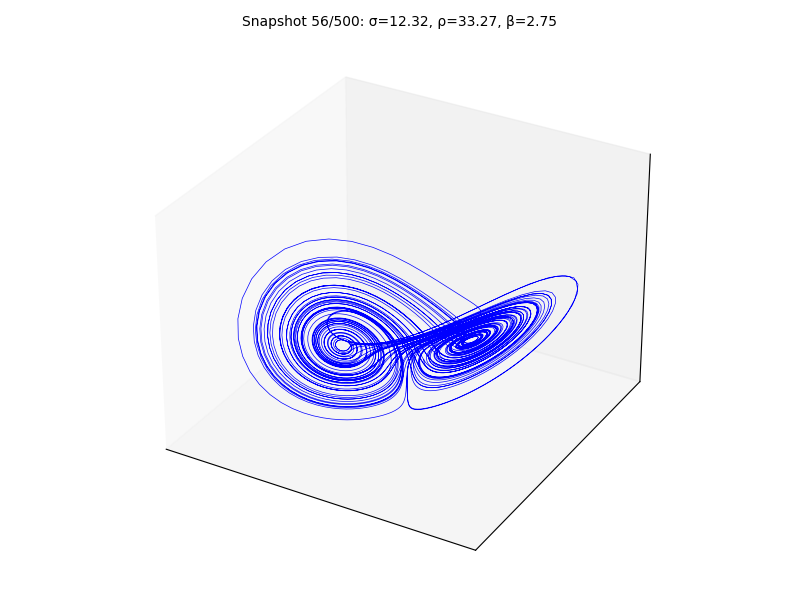
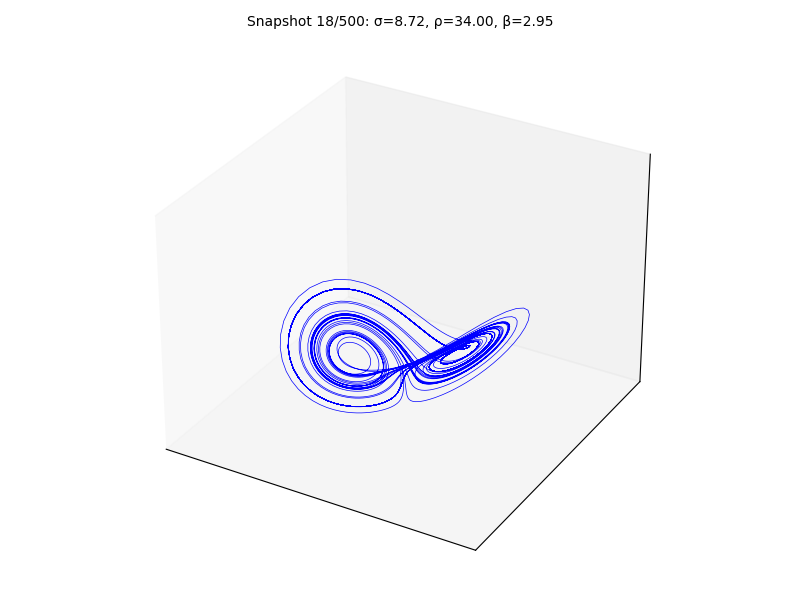
Working local search as posted in homework

Changed region(s): [[0.3125, 0.42, 0.7188, 0.69], [0.3125, 0.03, 0.6875, 0.06]]

diff --git a/experiments/local-search.py b/experiments/local-search.py
@@ -31,7 +31,7 @@ def measure_space(points):
     return volume
 
 # ---------- Local search with saving results ----------
-def local_search_lorenz_with_snapshots(iterations=500):
+def local_search_lorenz_with_snapshots(iterations=1500):
     """Run a simple hill climb and store snapshots of each iteration."""
     sigma, rho, beta = 10.0, 28.0, 8.0/3.0
     best_points = generate_attractor(sigma, rho, beta)
@@ -41,9 +41,9 @@ def local_search_lorenz_with_snapshots(iterations=500):
 
     for i in range(iterations-1):
         # Perturb parameters
-        new_sigma = sigma + np.random.uniform(-1, 1)
+        new_sigma = sigma + np.random.uniform(-1.5, 1.5)
         new_rho   = rho   + np.random.uniform(-2, 2)
-        new_beta  = beta  + np.random.uniform(-0.1, 0.1)
+        new_beta  = beta  + np.random.uniform(-0.3, 0.3)
         new_sigma = max(0.1, new_sigma)
         new_rho = max(0.1, new_rho)
         new_beta = max(0.01, new_beta)
@@ -69,8 +69,8 @@ if __name__ == "__main__":
     iterations = 500
     snapshots = local_search_lorenz_with_snapshots(iterations=iterations)
 
-    # Pick 10 evenly spaced snapshots including the last
-    num_plots = 10
+    # Pick evenly spaced snapshots including the last
+    num_plots = 30
     indices = np.linspace(0, iterations-1, num_plots, dtype=int)
     selected_snapshots = [snapshots[i] for i in indices]
 
@@ -102,13 +102,12 @@ if __name__ == "__main__":
         ax.set_zticks([])
 
     plt.tight_layout()
-    plt.show()    
+    plt.show()
     
     # Save the figure
     fig.savefig("./experiments/lorenz_local_search_snapshots.png", dpi=300)
 
-    # Make a GIF animation
-    
+    # Make a GIF animation    
     with imageio.get_writer('./experiments/lorenz_local_search.gif', mode='I', duration=0.5) as writer:
         for idx in range(num_plots):
             fig, ax = plt.subplots(figsize=(8, 6), subplot_kw={'projection':'3d'})
@@ -145,4 +144,5 @@ if __name__ == "__main__":
     plt.tight_layout()
     plt.show()
 
-
+    # Save the figure
+    fig.savefig("./experiments/lorenz_space_over_iterations.png", dpi=300)
